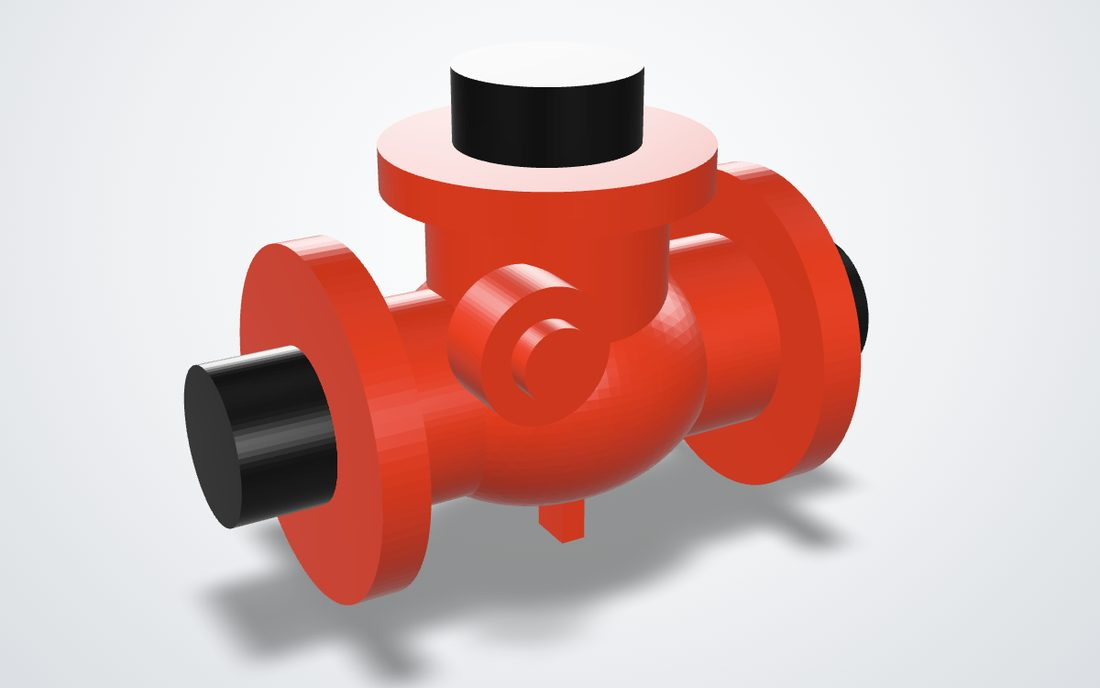
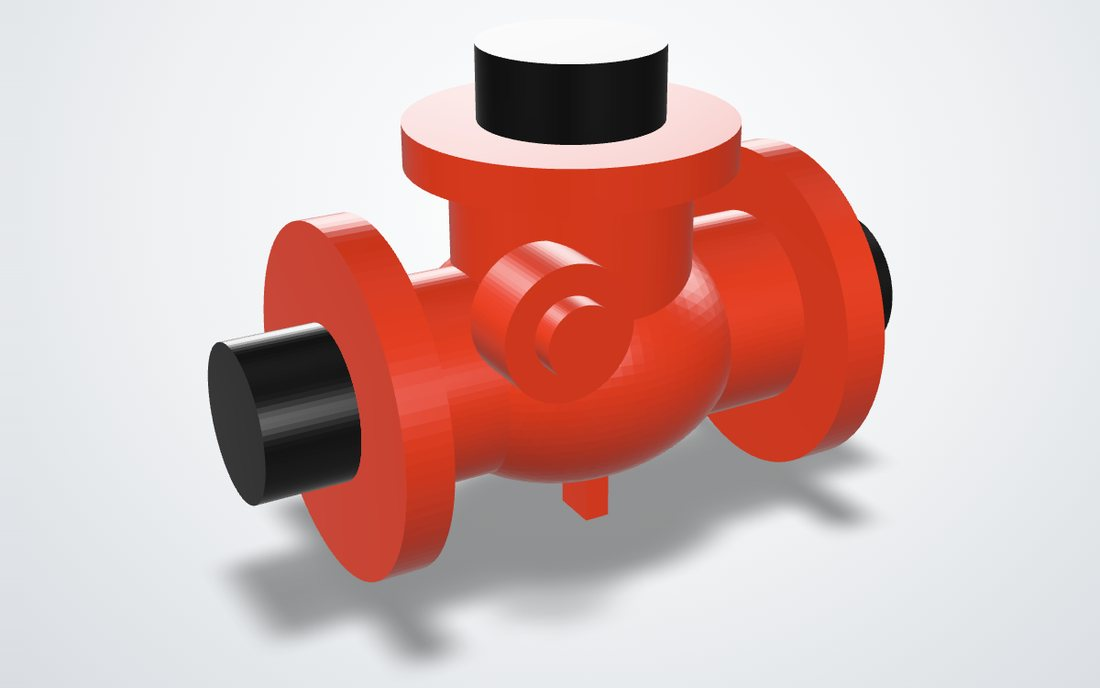
Portada: foto centrada y datos en 2x2

Changed region(s): [[0.1545, 0.061, 0.8345, 1.0]]

diff --git a/index.html b/index.html
@@ -58,7 +58,7 @@ nav .btn{padding:11px 15px;opacity:1}
 .hero .lead{font-size:18px}
 .hero .lead b{color:var(--ink)}
 .ctas{display:flex;gap:10px;flex-wrap:wrap;margin-top:20px}
-.facts{display:grid;grid-template-columns:repeat(4,max-content);gap:10px clamp(18px,3vw,34px);margin-top:22px;padding-top:16px;border-top:1px solid var(--line)}
+.facts{display:grid;grid-template-columns:repeat(2,minmax(0,1fr));gap:14px clamp(18px,3vw,34px);margin-top:22px;padding-top:16px;border-top:1px solid var(--line)}
 .facts b{font:700 21px/1 var(--f-head);color:var(--navy);display:block}
 .facts span{font-size:14px;color:var(--ink-2);display:block;margin-top:4px}
 .hero figure{position:relative;box-shadow:0 18px 40px -24px rgba(18,48,79,.45)}
@@ -193,7 +193,7 @@ footer img{height:34px;width:auto}
         <div class="facts">
           <div><b>+40 años</b><span>en modelería</span></div>
           <div><b>Alta precisión</b><span>en cada trabajo</span></div>
-          <div><b>6 técnicas</b><span>madera, aluminio, resina epoxi,<br>telgopor, 3D y fundición</span></div>
+          <div><b>6 técnicas</b><span>madera, aluminio, resina epoxi, telgopor, 3D y fundición</span></div>
           <div><b>CAD 3D</b><span>SolidWorks e Inventor</span></div>
         </div>
       </div>
